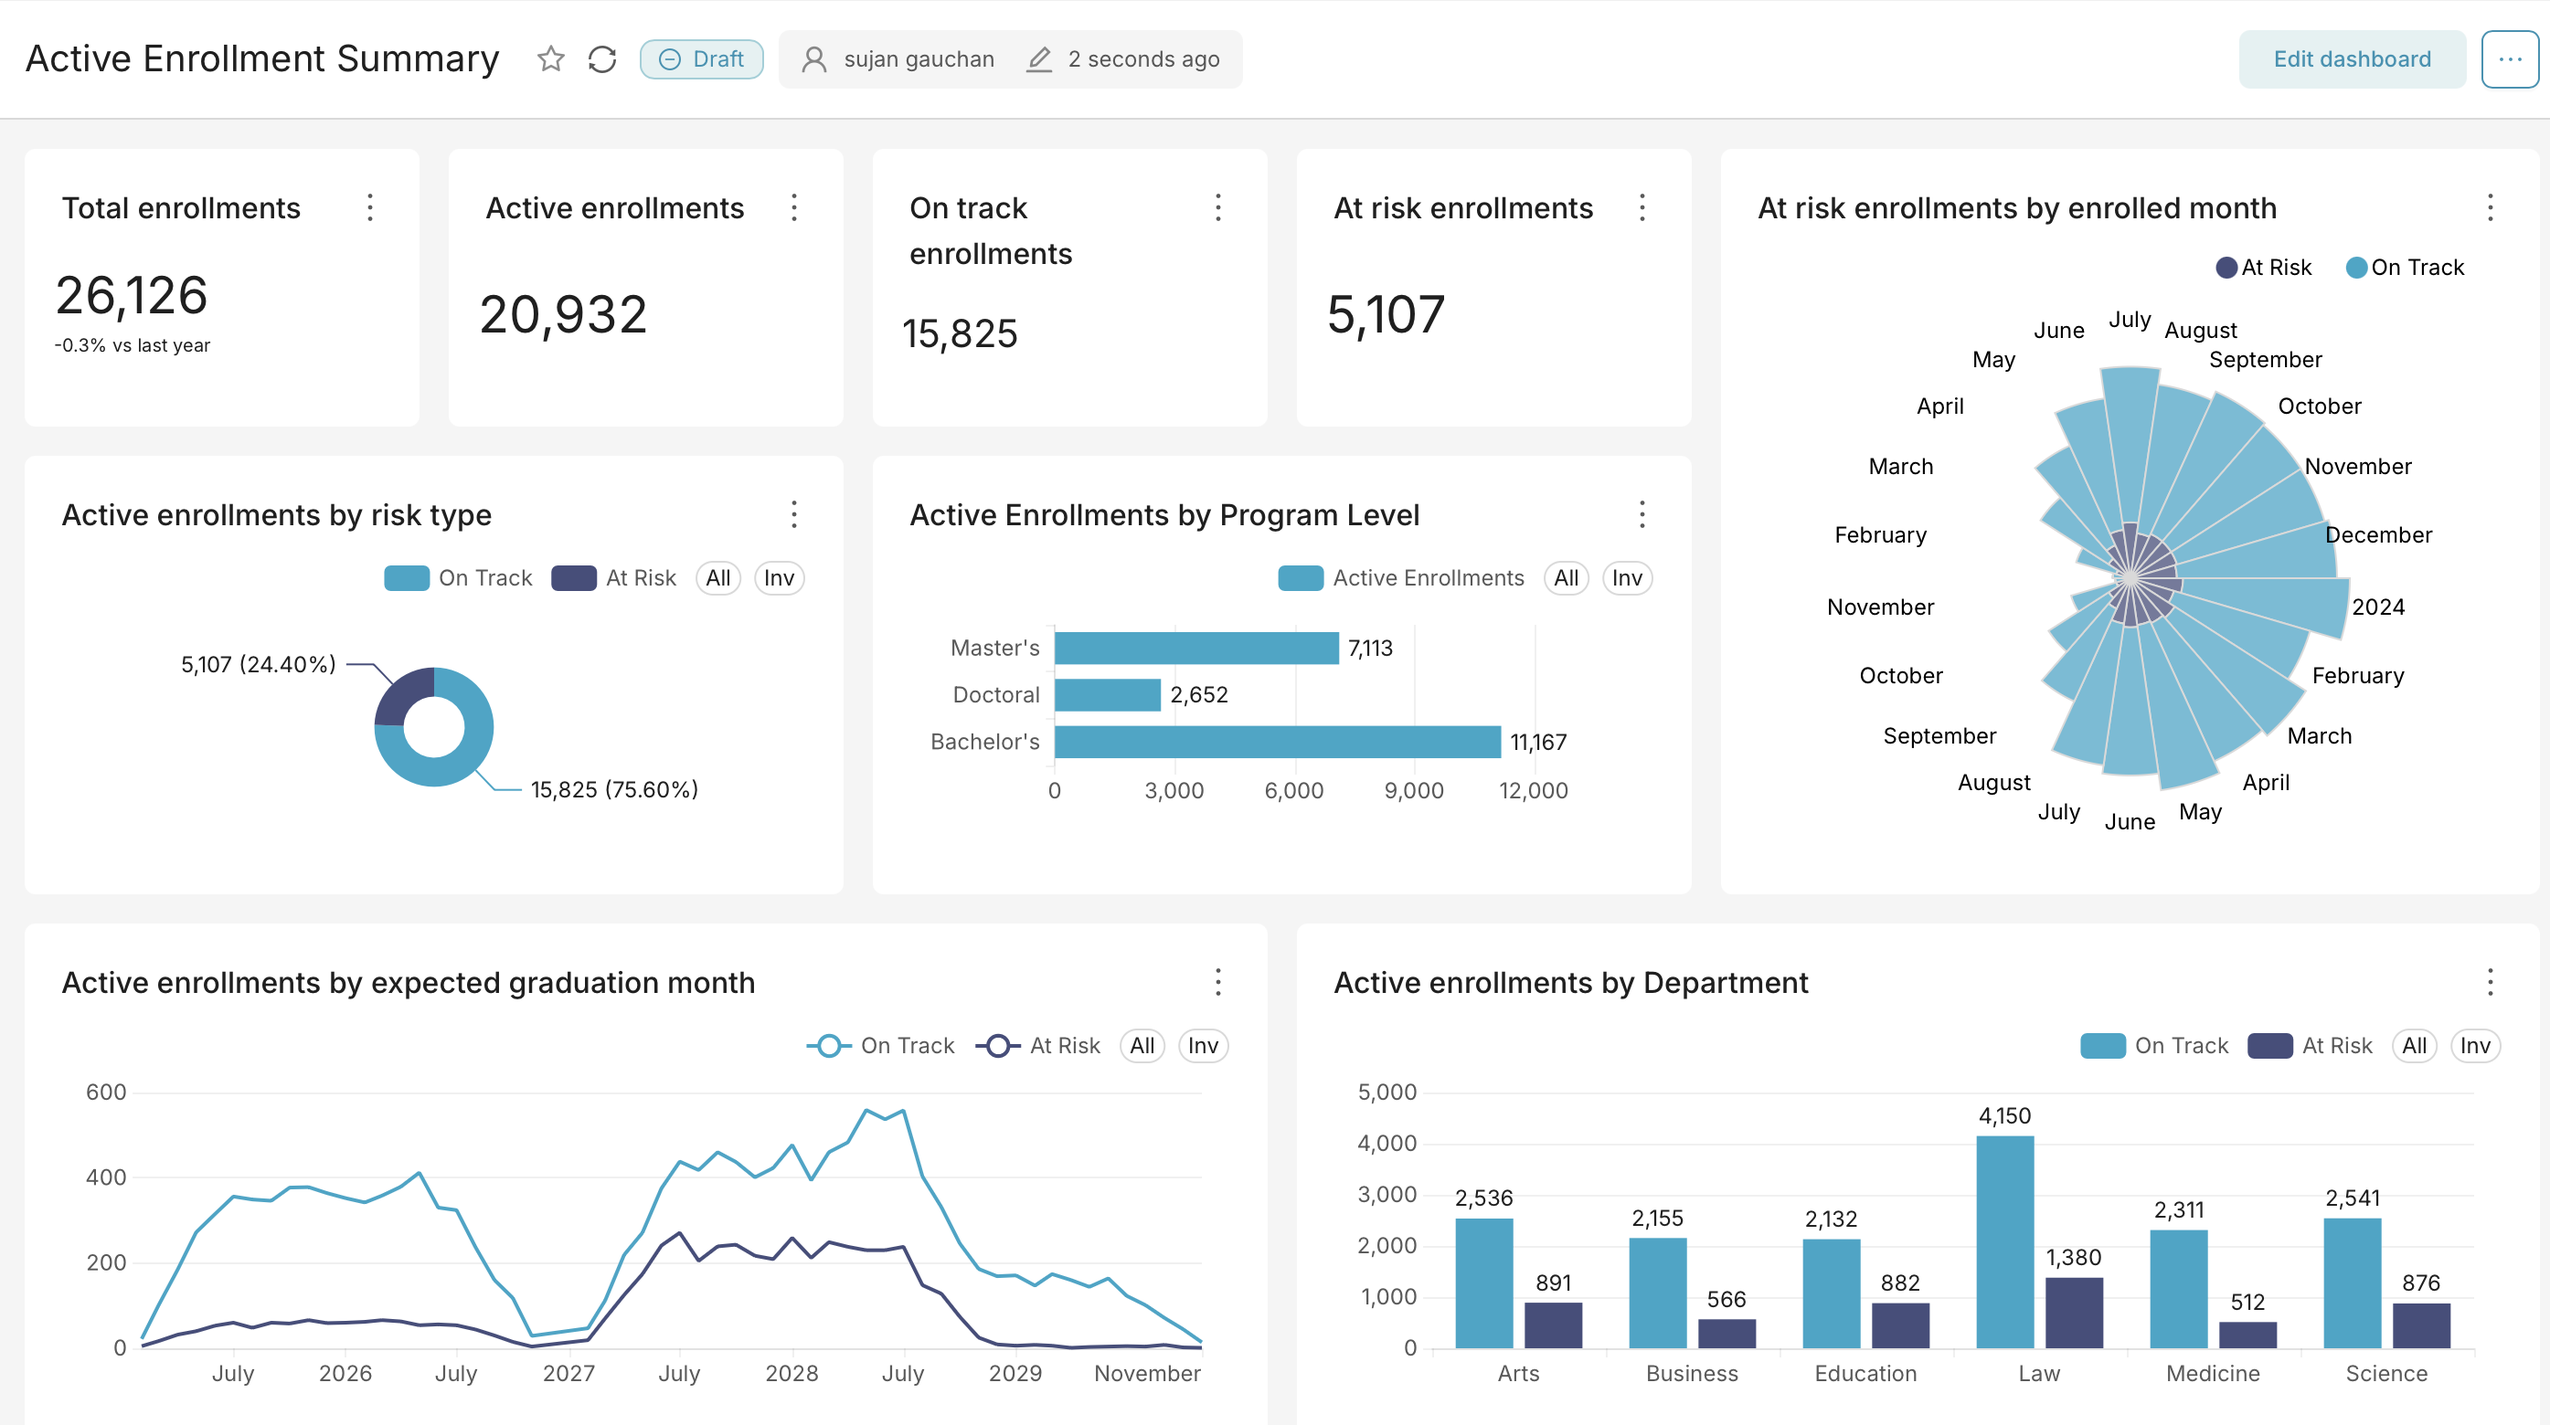
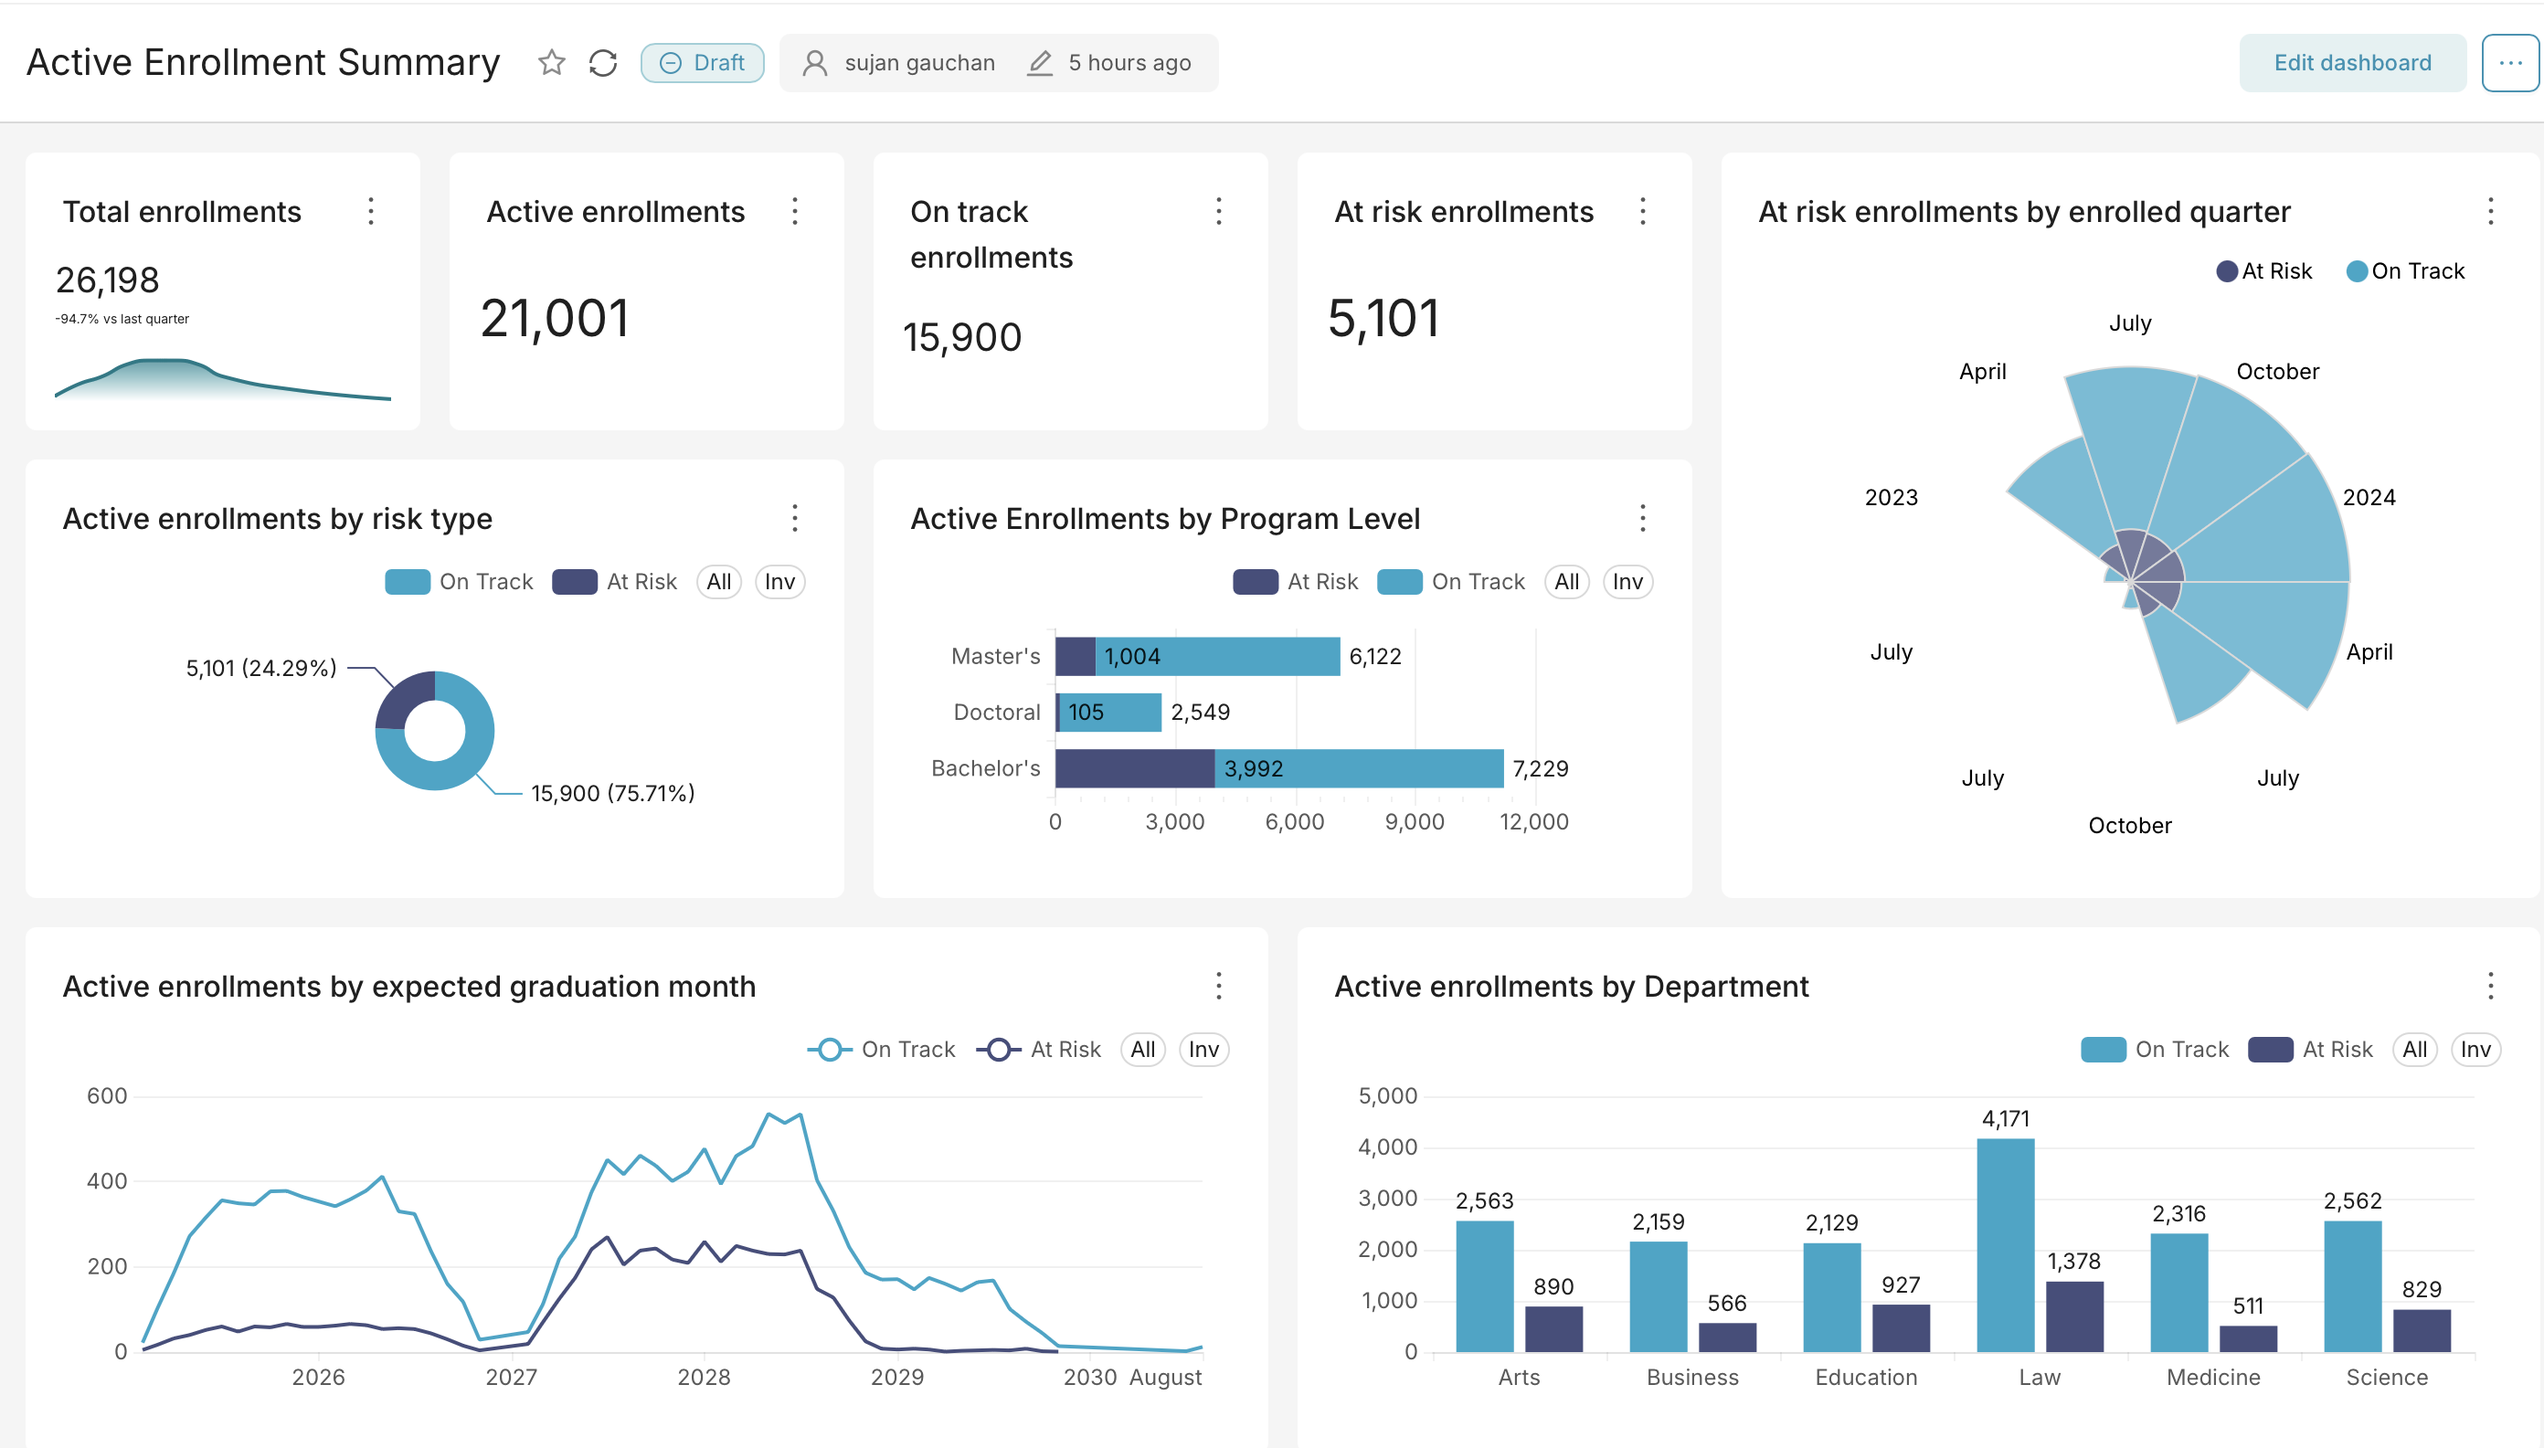
Screenshots Updated

diff --git a/OLTP/Incremental_program_enrollment.py b/OLTP/Incremental_program_enrollment.py
@@ -1,0 +1,163 @@
+"""
+Adds 20 new students to a 2025 semester — enrolls each in a program
+(weighted 70/25/5 Bachelor's/Master's/Doctoral) and their program's 
+real first-semester subjects, with no grades yet since they just enrolled. 
+One transaction, all or nothing.
+"""
+
+import os
+import random
+import psycopg2
+from datetime import timedelta
+from dotenv import load_dotenv
+
+load_dotenv()
+
+PG_CONN = dict(
+    dbname=os.getenv("PG_DBNAME"),
+    host=os.getenv("PG_HOST"),
+    port=os.getenv("PG_PORT"),
+    user=os.getenv("PG_USER"),
+    password=os.getenv("PG_PASSWORD"),
+)
+
+TARGET_SEMESTER_ID = "SEM-2025-S2"
+N_STUDENTS = 20
+
+# Same weighting data_loader.py uses for single-program students.
+DEGREE_WEIGHTS = {"Bachelor's": 0.70, "Master's": 0.25, "Doctoral": 0.05}
+
+
+def sync_sequence(cur, table, column):
+    cur.execute(f"""
+        SELECT setval(
+            pg_get_serial_sequence('{table}', '{column}'),
+            COALESCE((SELECT MAX({column}) FROM {table}), 1)
+        );
+    """)
+    print(f"[SYNC] {table}.{column} sequence resynced to current MAX.")
+
+
+def pick_program(cur):
+    """Weighted by degree level, same distribution as data_loader.py."""
+    degree = random.choices(
+        list(DEGREE_WEIGHTS.keys()), weights=list(DEGREE_WEIGHTS.values())
+    )[0]
+    cur.execute(
+        "SELECT program_id FROM programs WHERE degree_level = %s ORDER BY random() LIMIT 1;",
+        (degree,),
+    )
+    row = cur.fetchone()
+    return row[0], degree
+
+
+def first_semester_subjects(cur, program_id):
+    """Reuses the real program_subjects relation -- a student's subjects
+    must actually belong to their program's curriculum."""
+    cur.execute("""
+        SELECT subject_code FROM program_subjects
+        WHERE program_id = %s AND recommended_semester = 1;
+    """, (program_id,))
+    codes = [r[0] for r in cur.fetchall()]
+    if not codes:
+        # Fallback: no semester-1 subjects mapped for this program --
+        # take up to 4 of whatever is mapped, rather than crash or skip.
+        cur.execute("""
+            SELECT subject_code FROM program_subjects
+            WHERE program_id = %s ORDER BY random() LIMIT 4;
+        """, (program_id,))
+        codes = [r[0] for r in cur.fetchall()]
+    return codes
+
+
+def ensure_offering(cur, subject_code, semester_id):
+    cur.execute("""
+        INSERT INTO subject_offerings (subject_code, semester_id, coordinator_name)
+        VALUES (%s, %s, %s)
+        ON CONFLICT (subject_code, semester_id) DO NOTHING
+        RETURNING offering_id;
+    """, (subject_code, semester_id, "Dr. Incoming Faculty"))
+    row = cur.fetchone()
+    if row:
+        return row[0]
+    cur.execute("""
+        SELECT offering_id FROM subject_offerings
+        WHERE subject_code = %s AND semester_id = %s;
+    """, (subject_code, semester_id))
+    return cur.fetchone()[0]
+
+
+def add_new_intake(cur, n_students=N_STUDENTS):
+    sync_sequence(cur, "subject_offerings", "offering_id")
+    sync_sequence(cur, "program_enrollments", "program_enrollment_id")
+    sync_sequence(cur, "subject_enrollments", "subject_enrollment_id")
+
+    cur.execute("SELECT semester_id, start_date, end_date FROM semesters WHERE semester_id = %s;",
+                (TARGET_SEMESTER_ID,))
+    sem_row = cur.fetchone()
+    if not sem_row:
+        raise RuntimeError(f"{TARGET_SEMESTER_ID} not found in semesters table.")
+    semester_id, sem_start, sem_end = sem_row
+    enrollment_date = sem_start + timedelta(days=14)
+    print(f"[NEW INTAKE] targeting {semester_id} ({sem_start} to {sem_end}); "
+          f"enrollment_date={enrollment_date}")
+
+    cur.execute("SELECT student_id FROM students ORDER BY student_id DESC LIMIT 1;")
+    last_num = int(cur.fetchone()[0].split("-")[1])
+
+    created_students, created_pe, created_se = 0, 0, 0
+
+    for i in range(1, n_students + 1):
+        sid = f"STU-{last_num + i:05d}"
+        cur.execute("""
+            INSERT INTO students (student_id, first_name, last_name, email, created_at)
+            VALUES (%s, %s, %s, %s, %s);
+        """, (sid, "New", f"Student{last_num + i}", f"new.student{last_num + i}@student.edu",
+              enrollment_date))
+        created_students += 1
+
+        program_id, degree = pick_program(cur)
+        cur.execute("""
+            INSERT INTO program_enrollments (student_id, program_id, enrollment_date, status)
+            VALUES (%s, %s, %s, 'Active')
+            RETURNING program_enrollment_id;
+        """, (sid, program_id, enrollment_date))
+        pe_id = cur.fetchone()[0]
+        created_pe += 1
+
+        subject_codes = first_semester_subjects(cur, program_id)
+        for subject_code in subject_codes:
+            offering_id = ensure_offering(cur, subject_code, semester_id)
+            cur.execute("""
+                INSERT INTO subject_enrollments (program_enrollment_id, offering_id, status)
+                VALUES (%s, %s, 'Enrolled')
+                ON CONFLICT (program_enrollment_id, offering_id) DO NOTHING;
+            """, (pe_id, offering_id))
+            created_se += 1
+
+        print(f"[NEW INTAKE] {sid} -> {degree} / {program_id}, "
+              f"{len(subject_codes)} subject(s): {subject_codes}")
+
+    print(f"[NEW INTAKE] totals: {created_students} students, "
+          f"{created_pe} program_enrollments, {created_se} subject_enrollments")
+
+
+def main():
+    con = psycopg2.connect(**PG_CONN)
+    con.autocommit = False
+    cur = con.cursor()
+    try:
+        add_new_intake(cur)
+        con.commit()
+        print("New enrollments committed.")
+    except Exception as e:
+        con.rollback()
+        print(f"Failed, rolled back: {e}")
+        raise
+    finally:
+        cur.close()
+        con.close()
+
+
+if __name__ == "__main__":
+    main()
